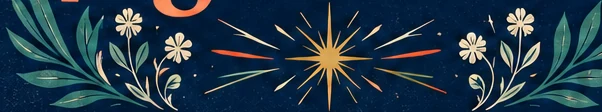
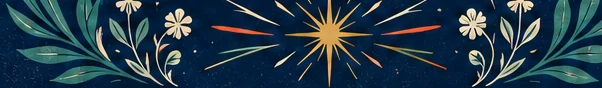
Mejora Bebidas y Veganos: vaso visible, tarjetas rediseñadas y título completo
Bebidas: la foto del encabezado se reencuadra para que se vean los cuatro vasos, y las
tarjetas llevan banda turquesa-oro, doble filete interior, relieve más marcado y botón
con brillo. Veganos: el título usa colores planos (la «g» ya no se recorta), el adorno se
recorta sin restos de texto, el azul del panel iguala el de las imágenes y se quitan las
ramas de las tarjetas. Catálogo, selectores y pedido sin cambios.

diff --git a/css/lupita-bebidas.css b/css/lupita-bebidas.css
@@ -39,11 +39,11 @@
   position: absolute;
   z-index: 0;
   inset: 0 0 0 auto;
-  width: 57%;
-  background: url('../assets/bebidas/hero-bebidas.webp') right center / cover no-repeat;
-  -webkit-mask-image: linear-gradient(90deg, transparent 0, #000 14%), linear-gradient(180deg, #000 82%, transparent 100%);
+  width: 58%;
+  background: url('../assets/bebidas/hero-bebidas.webp') right bottom / 100% auto no-repeat;
+  -webkit-mask-image: linear-gradient(90deg, transparent 0, #000 6%), linear-gradient(180deg, transparent 0, #000 28%, #000 93%, transparent 100%);
   -webkit-mask-composite: source-in;
-  mask-image: linear-gradient(90deg, transparent 0, #000 14%), linear-gradient(180deg, #000 82%, transparent 100%);
+  mask-image: linear-gradient(90deg, transparent 0, #000 6%), linear-gradient(180deg, transparent 0, #000 28%, #000 93%, transparent 100%);
   mask-composite: intersect;
   pointer-events: none;
 }
@@ -113,35 +113,59 @@
 #bebidas .product-card {
   position: relative;
   min-width: 0;
-  min-height: 236px;
+  min-height: 252px;
   display: flex;
   overflow: hidden;
-  border: 1px solid rgba(255, 255, 255, .9);
-  border-radius: 10px;
+  border: 1px solid rgba(255, 255, 255, .95);
+  border-radius: 14px;
   background:
-    url('../assets/bebidas/relieve-tl.svg') left top / clamp(70px, 8vw, 110px) no-repeat,
-    url('../assets/bebidas/relieve-br.svg') right bottom / clamp(70px, 8vw, 110px) no-repeat,
-    linear-gradient(150deg, #f7fbfd, #e6f0f5);
+    url('../assets/bebidas/relieve-tl.svg') left 6px top 6px / clamp(84px, 9vw, 128px) no-repeat,
+    url('../assets/bebidas/relieve-br.svg') right 6px bottom 6px / clamp(84px, 9vw, 128px) no-repeat,
+    radial-gradient(ellipse at 50% 0%, #ffffff 0%, rgba(255, 255, 255, 0) 62%),
+    linear-gradient(165deg, #f5fafd, #d9e8f1);
   color: var(--bd-ink);
-  box-shadow: 0 10px 24px rgba(0, 6, 18, .4), inset 0 0 0 1px rgba(255, 255, 255, .7);
-  transition: transform .2s ease, box-shadow .2s ease;
+  box-shadow: 0 16px 34px rgba(0, 8, 22, .5), 0 0 0 1px rgba(11, 27, 62, .1), inset 0 1px 0 #ffffff;
+  transition: transform .22s ease, box-shadow .22s ease;
 }
-#bebidas .product-card:hover { transform: translateY(-3px); box-shadow: 0 16px 30px rgba(0, 6, 18, .5), inset 0 0 0 1px rgba(255, 255, 255, .8); }
+/* Banda superior turquesa-oro. */
+#bebidas .product-card::before {
+  content: '';
+  position: absolute;
+  inset: 0 0 auto 0;
+  height: 5px;
+  background: linear-gradient(90deg, #087b91, #e8b24a 50%, #087b91);
+  pointer-events: none;
+}
+/* Doble filete interior dorado, como una carta de mesa. */
+#bebidas .product-card::after {
+  content: '';
+  position: absolute;
+  inset: 10px;
+  border: 1px solid rgba(185, 117, 22, .32);
+  border-radius: 9px;
+  pointer-events: none;
+}
+#bebidas .product-card:hover {
+  transform: translateY(-4px);
+  box-shadow: 0 22px 40px rgba(0, 8, 22, .55), 0 0 0 1px rgba(11, 138, 160, .45), 0 0 24px rgba(20, 180, 205, .25), inset 0 1px 0 #ffffff;
+}
 #bebidas .product-card__img { display: none; }
 #bebidas .product-card__body {
+  position: relative;
+  z-index: 1;
   flex: 1;
   min-width: 0;
   display: flex;
   flex-direction: column;
   align-items: center;
   text-align: center;
-  padding: clamp(20px, 2vw, 28px) clamp(16px, 1.8vw, 26px) clamp(18px, 1.8vw, 24px);
+  padding: clamp(24px, 2.3vw, 32px) clamp(18px, 2vw, 28px) clamp(20px, 2vw, 26px);
 }
 #bebidas .product-card__top { display: flex; flex-direction: column; align-items: center; margin: 0 0 6px; }
 #bebidas .product-card__top h4 {
   margin: 0;
   color: var(--bd-ink);
-  font: 700 clamp(1.3rem, 1.9vw, 1.75rem)/1.1 var(--bd-serif);
+  font: 800 clamp(1.35rem, 1.95vw, 1.85rem)/1.1 var(--bd-serif);
   letter-spacing: -.03em;
   overflow-wrap: normal;
 }
@@ -149,45 +173,48 @@
 #bebidas .product-card__top h4::after {
   content: '';
   display: block;
-  width: min(230px, 84%);
-  height: 20px;
-  margin: 8px auto 2px;
+  width: min(240px, 86%);
+  height: 22px;
+  margin: 9px auto 4px;
   background:
-    url('../assets/bebidas/fleuron.svg') no-repeat center / 26px auto,
-    linear-gradient(#d9a436, #d9a436) no-repeat left center / calc(50% - 22px) 1px,
-    linear-gradient(#d9a436, #d9a436) no-repeat right center / calc(50% - 22px) 1px;
+    url('../assets/bebidas/fleuron.svg') no-repeat center / 30px auto,
+    linear-gradient(90deg, transparent, #d9a436) no-repeat left center / calc(50% - 24px) 1px,
+    linear-gradient(90deg, #d9a436, transparent) no-repeat right center / calc(50% - 24px) 1px;
 }
 #bebidas .product-card__price {
-  background: linear-gradient(180deg, #d79a35, #a96a10);
+  background: linear-gradient(180deg, #e0a540, #a2640c);
   -webkit-background-clip: text;
   background-clip: text;
   color: transparent;
-  font: 800 clamp(1.7rem, 2.4vw, 2.3rem)/1.1 var(--bd-serif);
-  letter-spacing: -.02em;
+  filter: drop-shadow(0 1px 0 rgba(255, 255, 255, .9));
+  font: 800 clamp(1.9rem, 2.7vw, 2.6rem)/1.1 var(--bd-serif);
+  letter-spacing: -.025em;
   white-space: nowrap;
 }
 #bebidas .product-card__desc {
-  margin: 4px 0 14px;
-  color: #1d3350;
-  font: 400 clamp(.93rem, 1.15vw, 1.06rem)/1.35 var(--bd-serif);
+  margin: 6px 0 16px;
+  color: #26405c;
+  font: 400 clamp(.95rem, 1.2vw, 1.08rem)/1.35 var(--bd-serif);
 }
 #bebidas .product-card__foot { margin-top: auto; padding: 0; border: 0; justify-content: center; }
 #bebidas .product-card__foot > div:empty { display: none; }
 #bebidas .add-btn {
-  min-height: 46px;
-  min-width: 136px;
-  padding: 9px 22px;
+  min-height: 48px;
+  min-width: 148px;
+  padding: 10px 24px;
   border: 0;
   border-radius: 12px;
-  background: linear-gradient(180deg, #0b8aa0, #05687d);
+  background: linear-gradient(180deg, #0f9bb3 0%, #07677c 100%);
   color: #effbff;
-  font: 600 clamp(.95rem, 1.2vw, 1.1rem)/1.2 var(--bd-serif);
-  box-shadow: 0 4px 10px rgba(0, 70, 90, .35), inset 0 1px 0 rgba(255, 255, 255, .25);
+  font: 700 clamp(.98rem, 1.25vw, 1.12rem)/1.2 var(--bd-serif);
+  letter-spacing: .01em;
+  box-shadow: 0 6px 14px rgba(0, 80, 100, .4), inset 0 1px 0 rgba(255, 255, 255, .4), inset 0 0 0 1px rgba(255, 255, 255, .12);
   cursor: pointer;
+  transition: filter .2s ease, box-shadow .2s ease;
 }
-#bebidas .add-btn::after { content: ' +'; font: inherit; margin-left: 10px; }
-#bebidas .add-btn:hover { filter: brightness(1.1); transform: none; }
+#bebidas .add-btn:hover { filter: brightness(1.12); box-shadow: 0 8px 18px rgba(0, 120, 145, .5), inset 0 1px 0 rgba(255, 255, 255, .45); transform: none; }
 #bebidas .add-btn:focus-visible { outline: 3px solid #f3b13f; outline-offset: 3px; }
+#bebidas .add-btn::after { content: ' +'; font: inherit; margin-left: 10px; }
 
 /* ── Responsive ─────────────────────────────────────────── */
 @media (max-width: 1100px) {
@@ -202,7 +229,7 @@
 @media (max-width: 700px) {
   #bebidas .section-head {
     min-height: 0;
-    padding: 28px 20px 250px;
+    padding: 28px 20px calc((100vw - 56px) * .51 + 22px);
     background:
       radial-gradient(circle at 80% 8%, rgba(255, 170, 60, .2), transparent 20%),
       linear-gradient(180deg, #061426, #07203a);
@@ -210,10 +237,11 @@
   #bebidas .section-head::before {
     inset: auto 0 0 0;
     width: auto;
-    height: 236px;
-    background-position: 62% center;
-    -webkit-mask-image: linear-gradient(180deg, transparent 0, #000 26%);
-    mask-image: linear-gradient(180deg, transparent 0, #000 26%);
+    height: calc((100vw - 56px) * .51);
+    background-position: center bottom;
+    background-size: 100% 100%;
+    -webkit-mask-image: linear-gradient(180deg, transparent 0, #000 22%, #000 92%, transparent 100%);
+    mask-image: linear-gradient(180deg, transparent 0, #000 22%, #000 92%, transparent 100%);
     -webkit-mask-composite: source-over;
     mask-composite: add;
   }

diff --git a/css/lupita-veganos.css b/css/lupita-veganos.css
@@ -2,7 +2,7 @@
    Marco de estrellas: marco-estrellas.svg como border-image. Las cuatro cartas son un recorte
    decorativo de la referencia aprobada (Lentejas, Porotos, Quínoa, Champiñón): no son productos. */
 #veganos.menu-section {
-  --vg-navy: #061c39;
+  --vg-navy: #07213f;
   --vg-ivory: #f7ecd4;
   --vg-coral: #f37457;
   --vg-green: #0d5049;
@@ -61,7 +61,7 @@
   left: 0;
   bottom: 0;
   width: min(48%, 560px);
-  aspect-ratio: 602 / 112;
+  aspect-ratio: 602 / 88;
   background: url('../assets/veganos/adorno-cabecera.webp') center / 100% 100% no-repeat;
   -webkit-mask-image: radial-gradient(ellipse at center, #000 52%, transparent 100%);
   mask-image: radial-gradient(ellipse at center, #000 52%, transparent 100%);
@@ -93,18 +93,18 @@
   height: 22px;
   background: url('../assets/veganos/estrella-oro.svg') no-repeat center / 22px 22px;
 }
-/* Título a dos tintas: crema arriba, coral abajo. */
+/* Título a dos tintas: primera línea crema, segunda coral (color plano: la «g» no se recorta). */
 #veganos .section-head h3 {
   max-width: 5.8em;
   margin: 0 0 clamp(10px, 1.2vw, 18px);
-  font: 800 clamp(3rem, 6.2vw, 6rem)/.92 var(--vg-serif);
+  padding-bottom: .08em;
+  color: var(--vg-coral);
+  font: 800 clamp(3rem, 6.2vw, 6rem)/.98 var(--vg-serif);
   letter-spacing: -.04em;
   text-transform: none;
-  color: transparent;
-  background: linear-gradient(180deg, var(--vg-ivory) 0 50%, var(--vg-coral) 50% 100%);
-  -webkit-background-clip: text;
-  background-clip: text;
+  overflow: visible;
 }
+#veganos .section-head h3::first-line { color: var(--vg-ivory); }
 #veganos .section-head > p {
   max-width: 44ch;
   margin: 0;
@@ -150,18 +150,6 @@
   letter-spacing: -.06em;
   pointer-events: none;
 }
-/* Rama al pie izquierdo, alternando verde / coral. */
-#veganos .product-card::after {
-  content: '';
-  position: absolute;
-  left: 4%;
-  bottom: 14px;
-  width: clamp(48px, 5.4vw, 74px);
-  aspect-ratio: 80 / 84;
-  background: url('../assets/veganos/hojas-verde.svg') center / contain no-repeat;
-  pointer-events: none;
-}
-#veganos .product-card:nth-child(even)::after { background-image: url('../assets/veganos/hojas-coral.svg'); }
 #veganos .product-card__img { display: none; }
 #veganos .product-card__body {
   position: relative;

diff --git a/index.html b/index.html
@@ -64,8 +64,8 @@
 <link rel="stylesheet" href="css/lupita-sandwiches.css?v=20261022-11">
 <link rel="stylesheet" href="css/lupita-especiales.css?v=20261022-4">
 <link rel="stylesheet" href="css/lupita-compartir.css?v=20261022-5">
-<link rel="stylesheet" href="css/lupita-veganos.css?v=20261022-6">
-<link rel="stylesheet" href="css/lupita-bebidas.css?v=20261022-2">
+<link rel="stylesheet" href="css/lupita-veganos.css?v=20261022-7">
+<link rel="stylesheet" href="css/lupita-bebidas.css?v=20261022-6">
 </head>
 <body>
 
